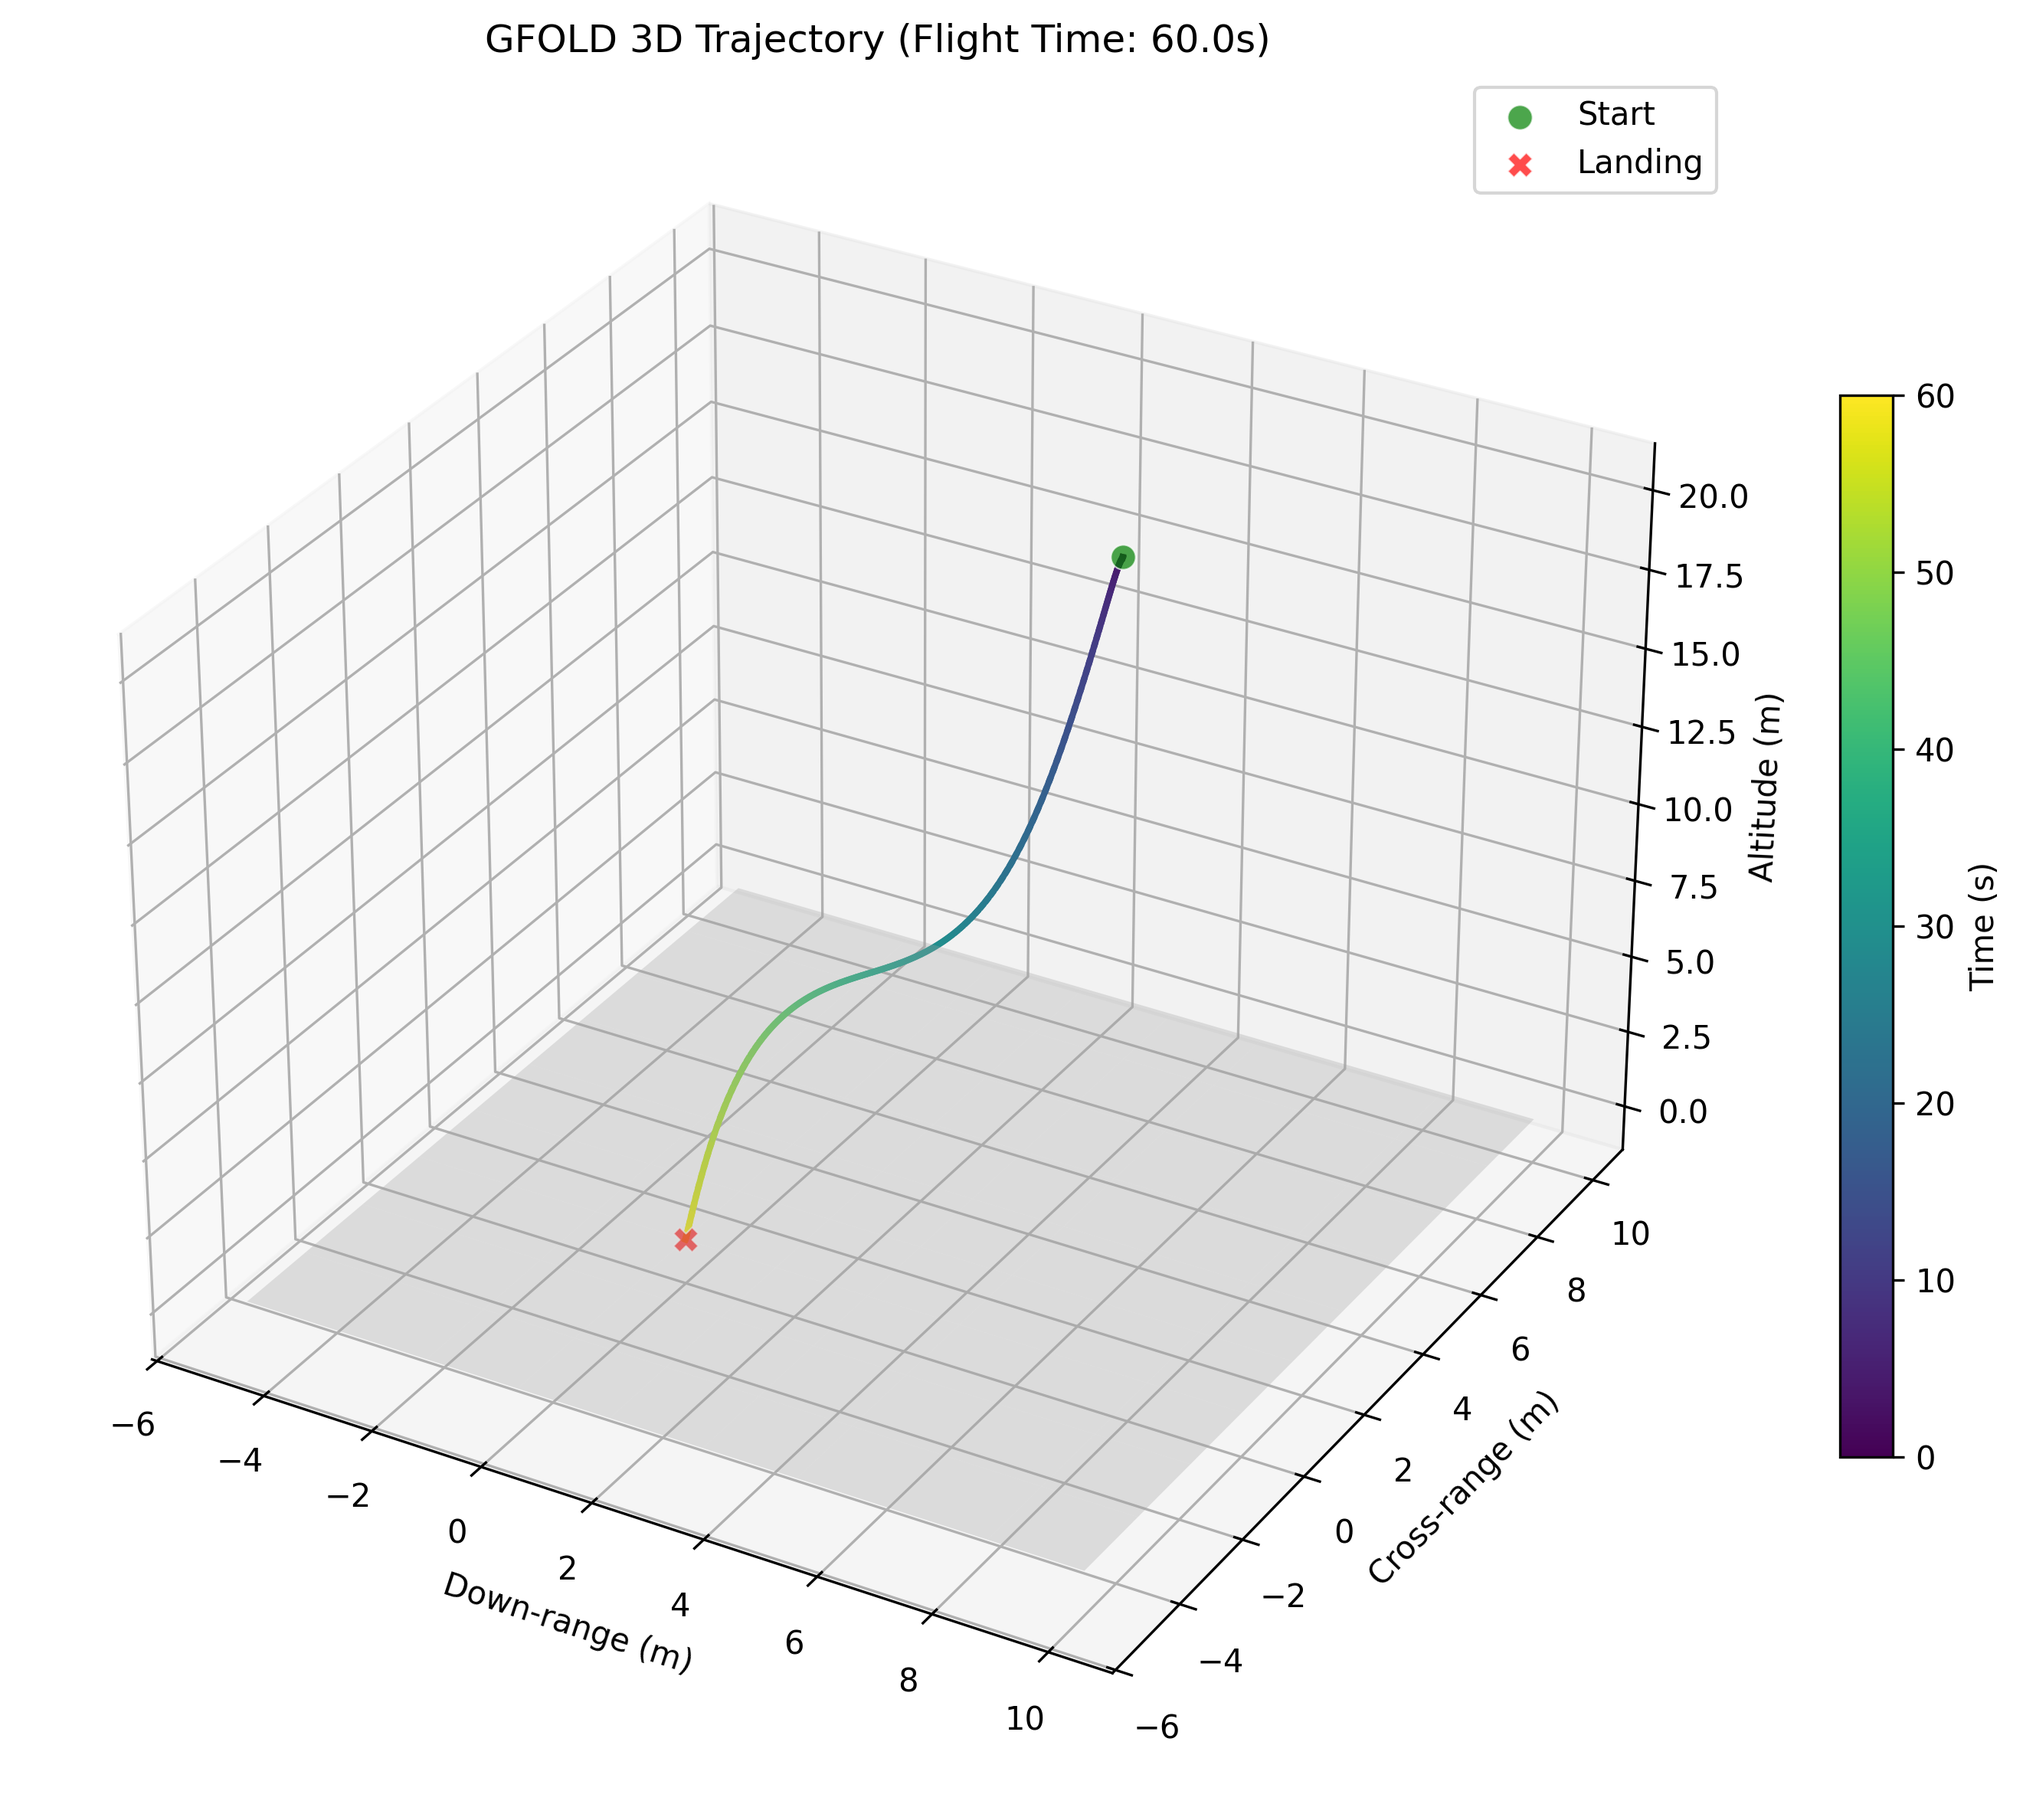
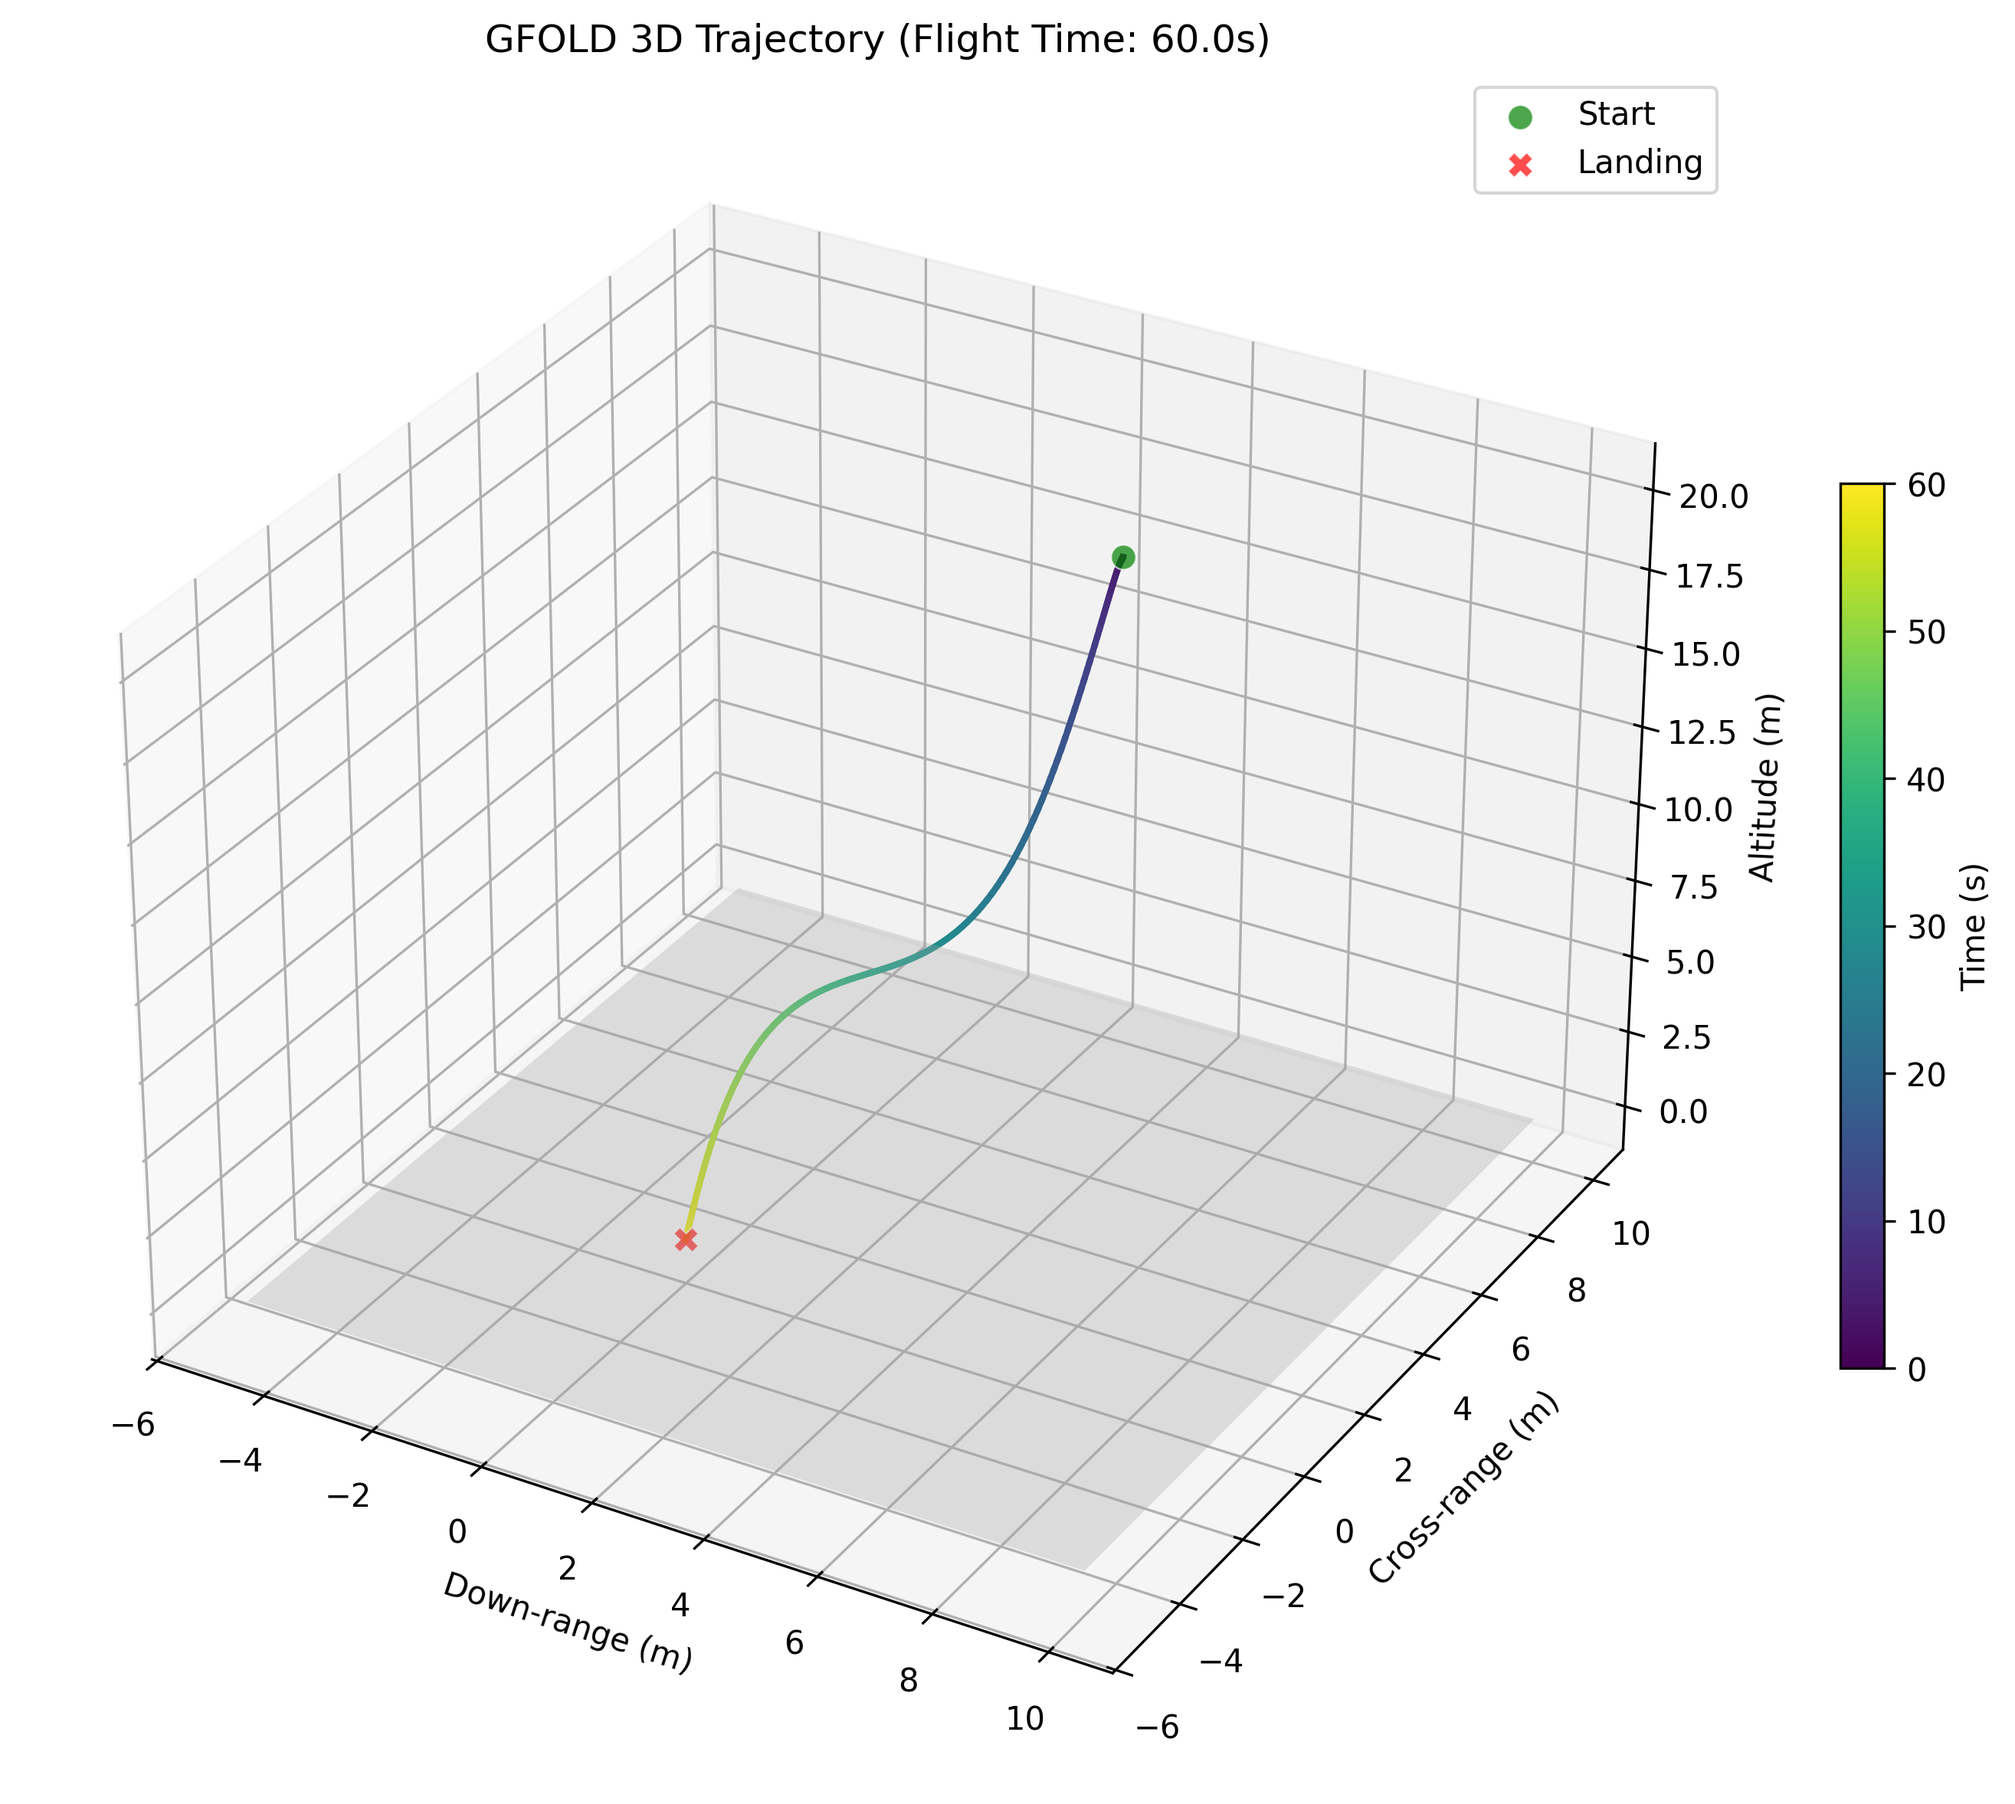
colorbar adjustments

diff --git a/src/Trajectory_Generator/plotting.py b/src/Trajectory_Generator/plotting.py
@@ -4,7 +4,12 @@ GFOLD Trajectory Plotting Module
 This module provides comprehensive plotting functionality for GFOLD trajectory visualization.
 Includes both regular and dark theme variants for 3D trajectories and planar projections.
 
-Based on ARCHIVED_EvilPlotting_py3.py with modernizations for integration with trajectory_generator.py
+Based on ARCHIVED_EvilPlotting_py3.py with        # Add shared colorbar with medium height
+        cax = fig.add_axes([0.92, 0.5, 0.02, 0.35])
+        sm = cm.ScalarMappable(norm=norm, cmap=cmap)
+        sm.set_array(t)
+        cbar = fig.colorbar(sm, cax=cax)
+        cbar.set_label("Time (s)")nizations for integration with trajectory_generator.py
 """
 
 from typing import Tuple, Optional
@@ -153,7 +158,7 @@ class TrajectoryPlotter:
         # Add colorbar for time
         sm = cm.ScalarMappable(norm=norm, cmap=cmap)
         sm.set_array(t)
-        cbar = fig.colorbar(sm, ax=ax, shrink=0.6)
+        cbar = fig.colorbar(sm, ax=ax, shrink=0.5)
         cbar.set_label("Time (s)")
 
         # Save plot
@@ -264,7 +269,7 @@ class TrajectoryPlotter:
         fig.suptitle(title, fontsize=16)
 
         # Add shared colorbar with smaller height
-        cax = fig.add_axes([0.92, 0.6, 0.02, 0.25])
+        cax = fig.add_axes([0.92, 0.55, 0.02, 0.329])
         sm = cm.ScalarMappable(norm=norm, cmap=cmap)
         sm.set_array(t)
         cbar = fig.colorbar(sm, cax=cax)
